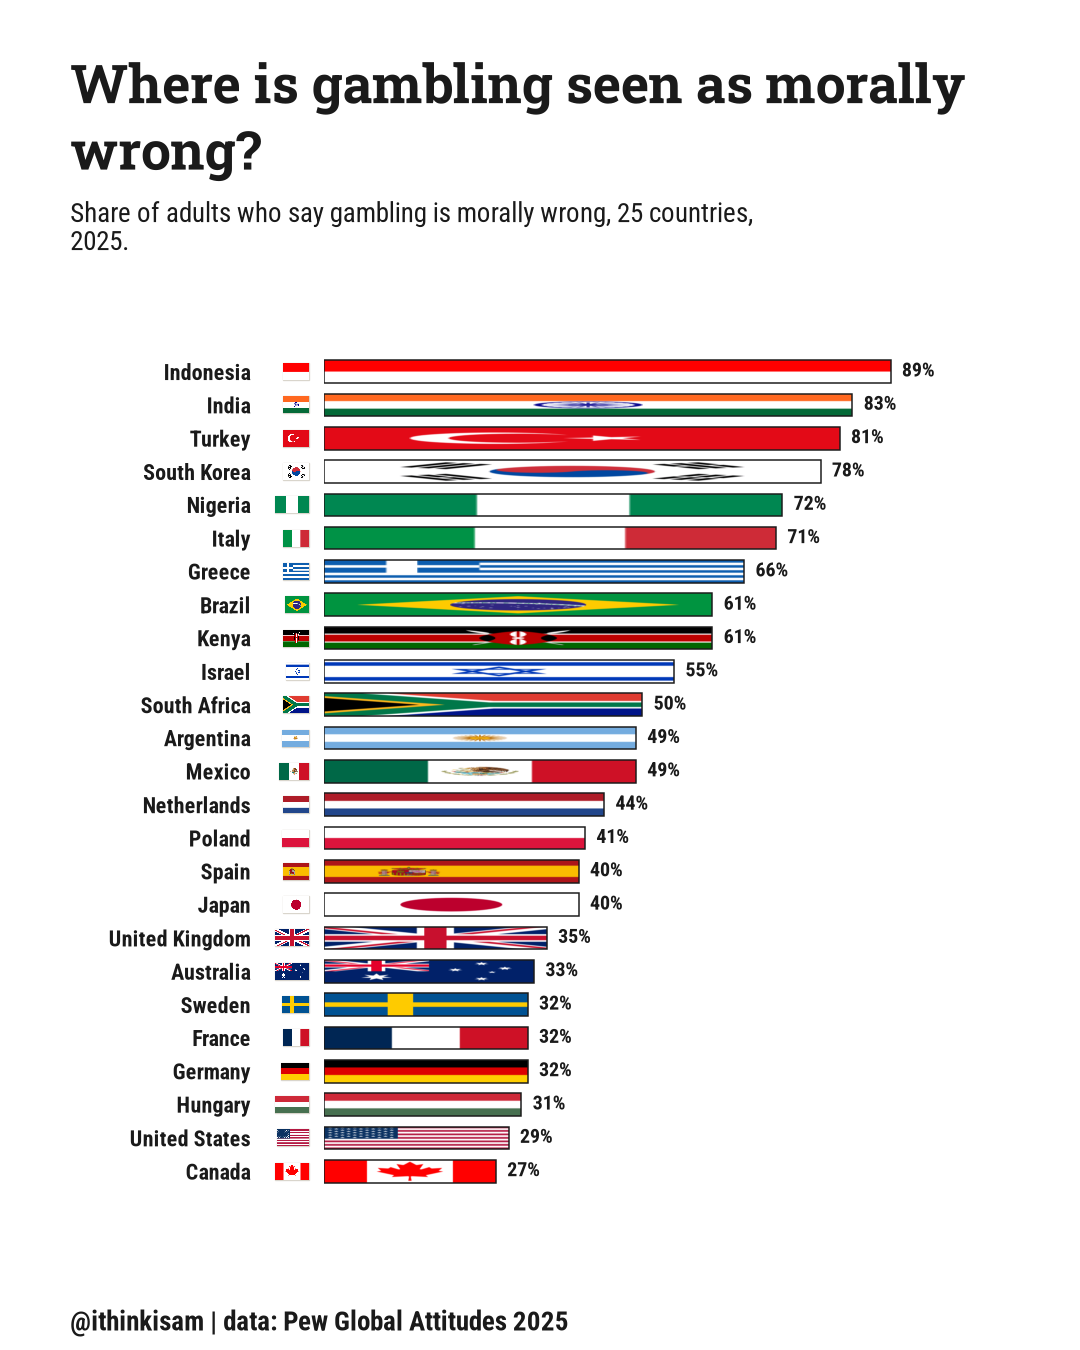
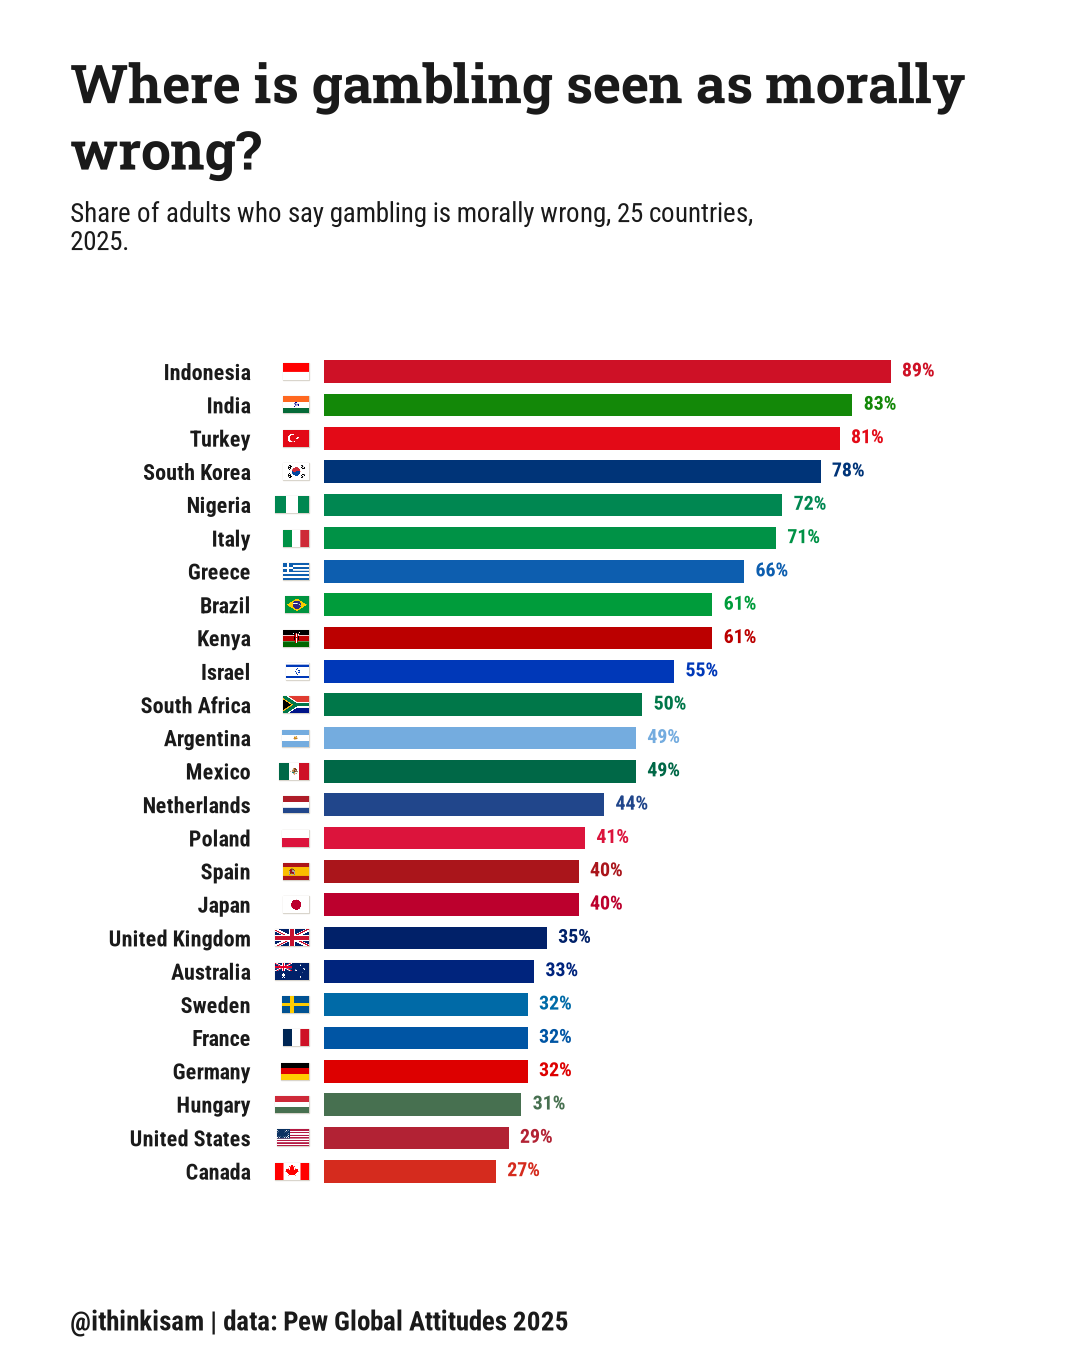
Country gambling chart: solid flag-colored bars, small flag beside label (#32)

Changed region(s): [[0.275, 0.2489, 0.8556, 0.9022]]

diff --git a/scripts/flagship-charts/common.py b/scripts/flagship-charts/common.py
@@ -307,11 +307,10 @@ def render_magnitude_bar(
     round to the same "0%" label.
 
     `bar_images`, when given, maps a row label to an image file (e.g. a
-    country flag). That row's bar is filled with the image stretched to the
-    bar's extent (outlined in INK so a mostly-white image still reads), a
-    small copy of the image sits between the row label and the bar, and the
-    value label is drawn in INK. Rows missing from the map keep their normal
-    solid color. Default None leaves every existing caller unchanged.
+    country flag). A small copy of the image sits between that row's label
+    and its bar; the bar itself stays a solid color (pair with `row_colors`).
+    Rows missing from the map get no icon. Default None leaves every existing
+    caller unchanged.
     """
     fonts = fonts or load_fonts()
     fig = plt.figure(figsize=(FIG_W_IN, FIG_H_IN), dpi=DPI)
@@ -453,21 +452,16 @@ def render_magnitude_bar(
         running += w / 2 if i == 0 else weights[i - 1] / 2 + w / 2
         row_positions.append(running)
 
+    ax.barh(row_positions, vals, height=bar_h, color=colors, zorder=3)
     if bar_images:
         from matplotlib.offsetbox import AnnotationBbox, OffsetImage
         from PIL import Image
         import numpy as np
-        bars = ax.barh(row_positions, vals, height=bar_h, color=colors, zorder=3)
-        for r, v, y, bar in zip(display_rows, vals, row_positions, bars):
+        for r, y in zip(display_rows, row_positions):
             if r not in bar_images:
                 continue
             arr = np.asarray(Image.open(bar_images[r]).convert("RGBA"))
-            bar.set_visible(False)
-            ax.imshow(arr, extent=(0, v, y - bar_h / 2, y + bar_h / 2), aspect="auto",
-                      zorder=3, interpolation="bilinear")
-            ax.barh([y], [v], height=bar_h, fill=False, edgecolor=INK, linewidth=0.9, zorder=5)
-            icon_h_px = 17
-            zoom = icon_h_px / arr.shape[0] * 72 / DPI
+            zoom = 17 / arr.shape[0] * 72 / DPI
             ab = AnnotationBbox(
                 OffsetImage(arr, zoom=zoom), (0, y), xycoords=("axes fraction", "data"),
                 xybox=(-9, 0), boxcoords="offset points", box_alignment=(1, 0.5),
@@ -475,9 +469,6 @@ def render_magnitude_bar(
                 pad=0, annotation_clip=False, zorder=6,
             )
             ax.add_artist(ab)
-        colors = [INK if r in bar_images else c for r, c in zip(display_rows, colors)]
-    else:
-        ax.barh(row_positions, vals, height=bar_h, color=colors, zorder=3)
     ax.set_xlim(0, max(vals) * 1.22)
     span = (row_positions[-1] + weights[-1] / 2) - (row_positions[0] - weights[0] / 2)
     pad = span * margin_frac

diff --git a/scripts/pew-gambling-morality-2025/render_gambling_wrong_by_country.py b/scripts/pew-gambling-morality-2025/render_gambling_wrong_by_country.py
@@ -1,8 +1,9 @@
 #!/usr/bin/env python3
 """Renders "Where is gambling seen as morally wrong?" from
 docs/datasets/pew-gambling-morality-2025/gambling-morally-wrong-by-country.json.
-Shared magnitude-bar shape; each bar is filled with its country's flag
-(flags/<iso2>.png, from flagcdn.com) and a small flag sits beside the label.
+Shared magnitude-bar shape; each bar is a solid color taken from its country's
+flag (FLAG_COLORS) and a small flag (flags/<iso2>.png, from flagcdn.com) sits
+beside the label.
 
 Usage:
   python scripts/pew-gambling-morality-2025/render_gambling_wrong_by_country.py \
@@ -28,6 +29,16 @@ ISO2 = {
     "Australia": "au", "Sweden": "se", "France": "fr", "Germany": "de",
     "Hungary": "hu", "United States": "us", "Canada": "ca",
 }
+# One characteristic color from each flag, chosen to stay readable on white.
+FLAG_COLORS = {
+    "Indonesia": "#CE1126", "India": "#138808", "Turkey": "#E30A17", "South Korea": "#003478",
+    "Nigeria": "#008751", "Italy": "#009246", "Greece": "#0D5EAF", "Brazil": "#009C3B",
+    "Kenya": "#BB0000", "Israel": "#0038B8", "South Africa": "#007749", "Argentina": "#74ACDF",
+    "Mexico": "#006847", "Netherlands": "#21468B", "Poland": "#DC143C", "Spain": "#AA151B",
+    "Japan": "#BC002D", "United Kingdom": "#012169", "Australia": "#00247D", "Sweden": "#006AA7",
+    "France": "#0055A4", "Germany": "#DD0000", "Hungary": "#477050", "United States": "#B22234",
+    "Canada": "#D52B1E",
+}
 DATA_JSON = HERE.parent.parent / "docs" / "datasets" / "pew-gambling-morality-2025" / "gambling-morally-wrong-by-country.json"
 
 
@@ -42,6 +53,7 @@ def main():
         rows=rows,
         values=values,
         highlight_rows=None,
+        row_colors=FLAG_COLORS,
         bar_images={r: FLAG_DIR / f"{ISO2[r]}.png" for r in rows},
         title="Where is gambling seen as morally wrong?",
         subtitle="Share of adults who say gambling is morally wrong, 25 countries,\n2025.",

diff --git a/docs/datasets/pew-gambling-morality-2025/README.md b/docs/datasets/pew-gambling-morality-2025/README.md
@@ -12,4 +12,4 @@ Latter-day Saints; they give context for the Latter-day Saint figures in
 Values are transcribed from Pew's published charts and text. U.S. wording was
 "morally wrong"; other countries used "morally unacceptable".
 
-Flag images in `scripts/pew-gambling-morality-2025/flags/` come from flagcdn.com (320px PNGs, ISO 3166 codes) and are used to fill the country chart bars.
+Flag images in `scripts/pew-gambling-morality-2025/flags/` come from flagcdn.com (320px PNGs, ISO 3166 codes) and appear beside each country label; bar colors are one color per flag.
